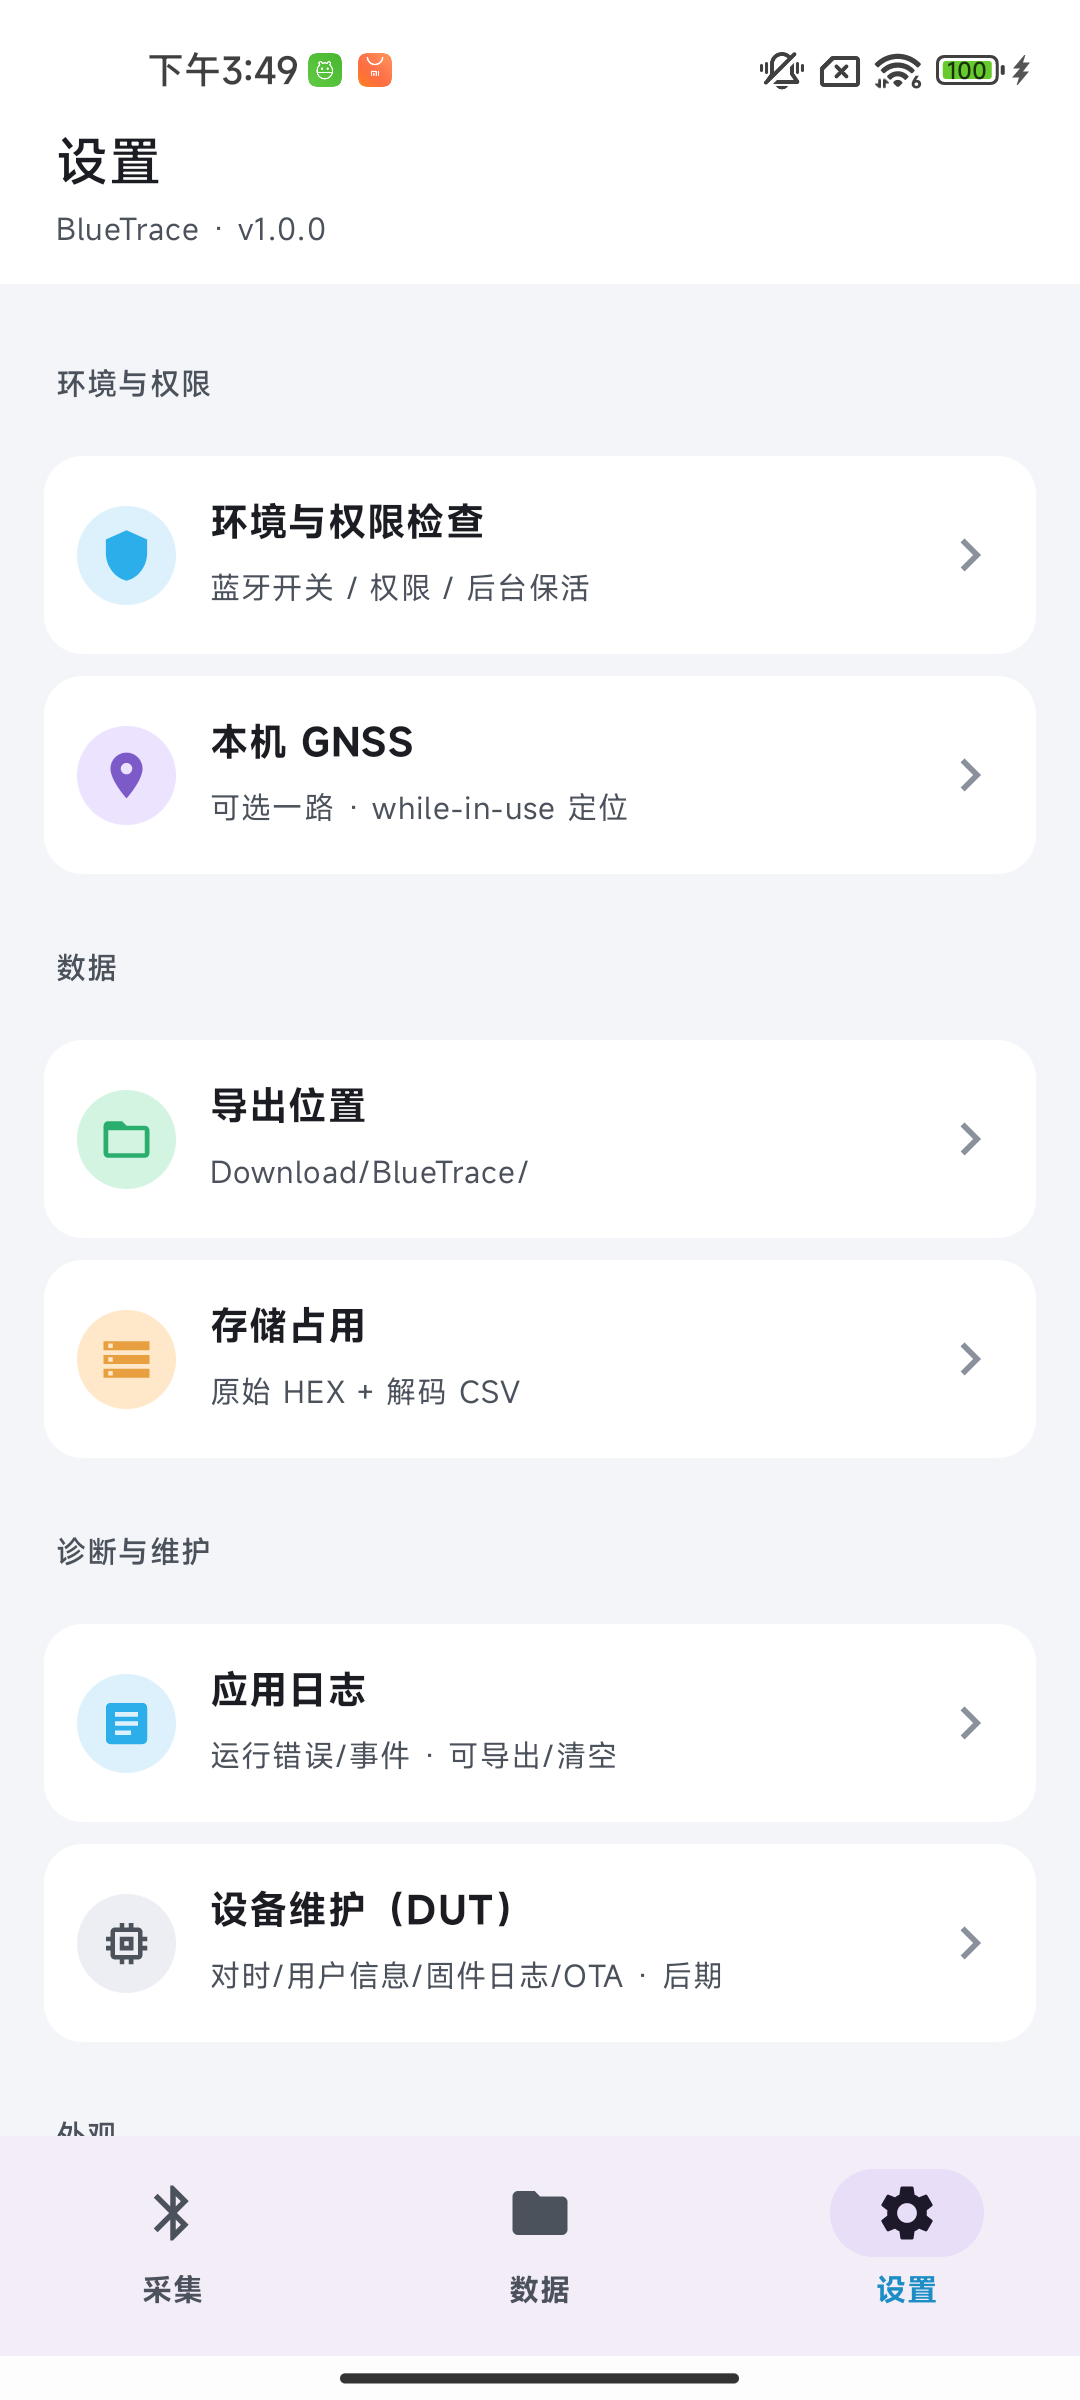
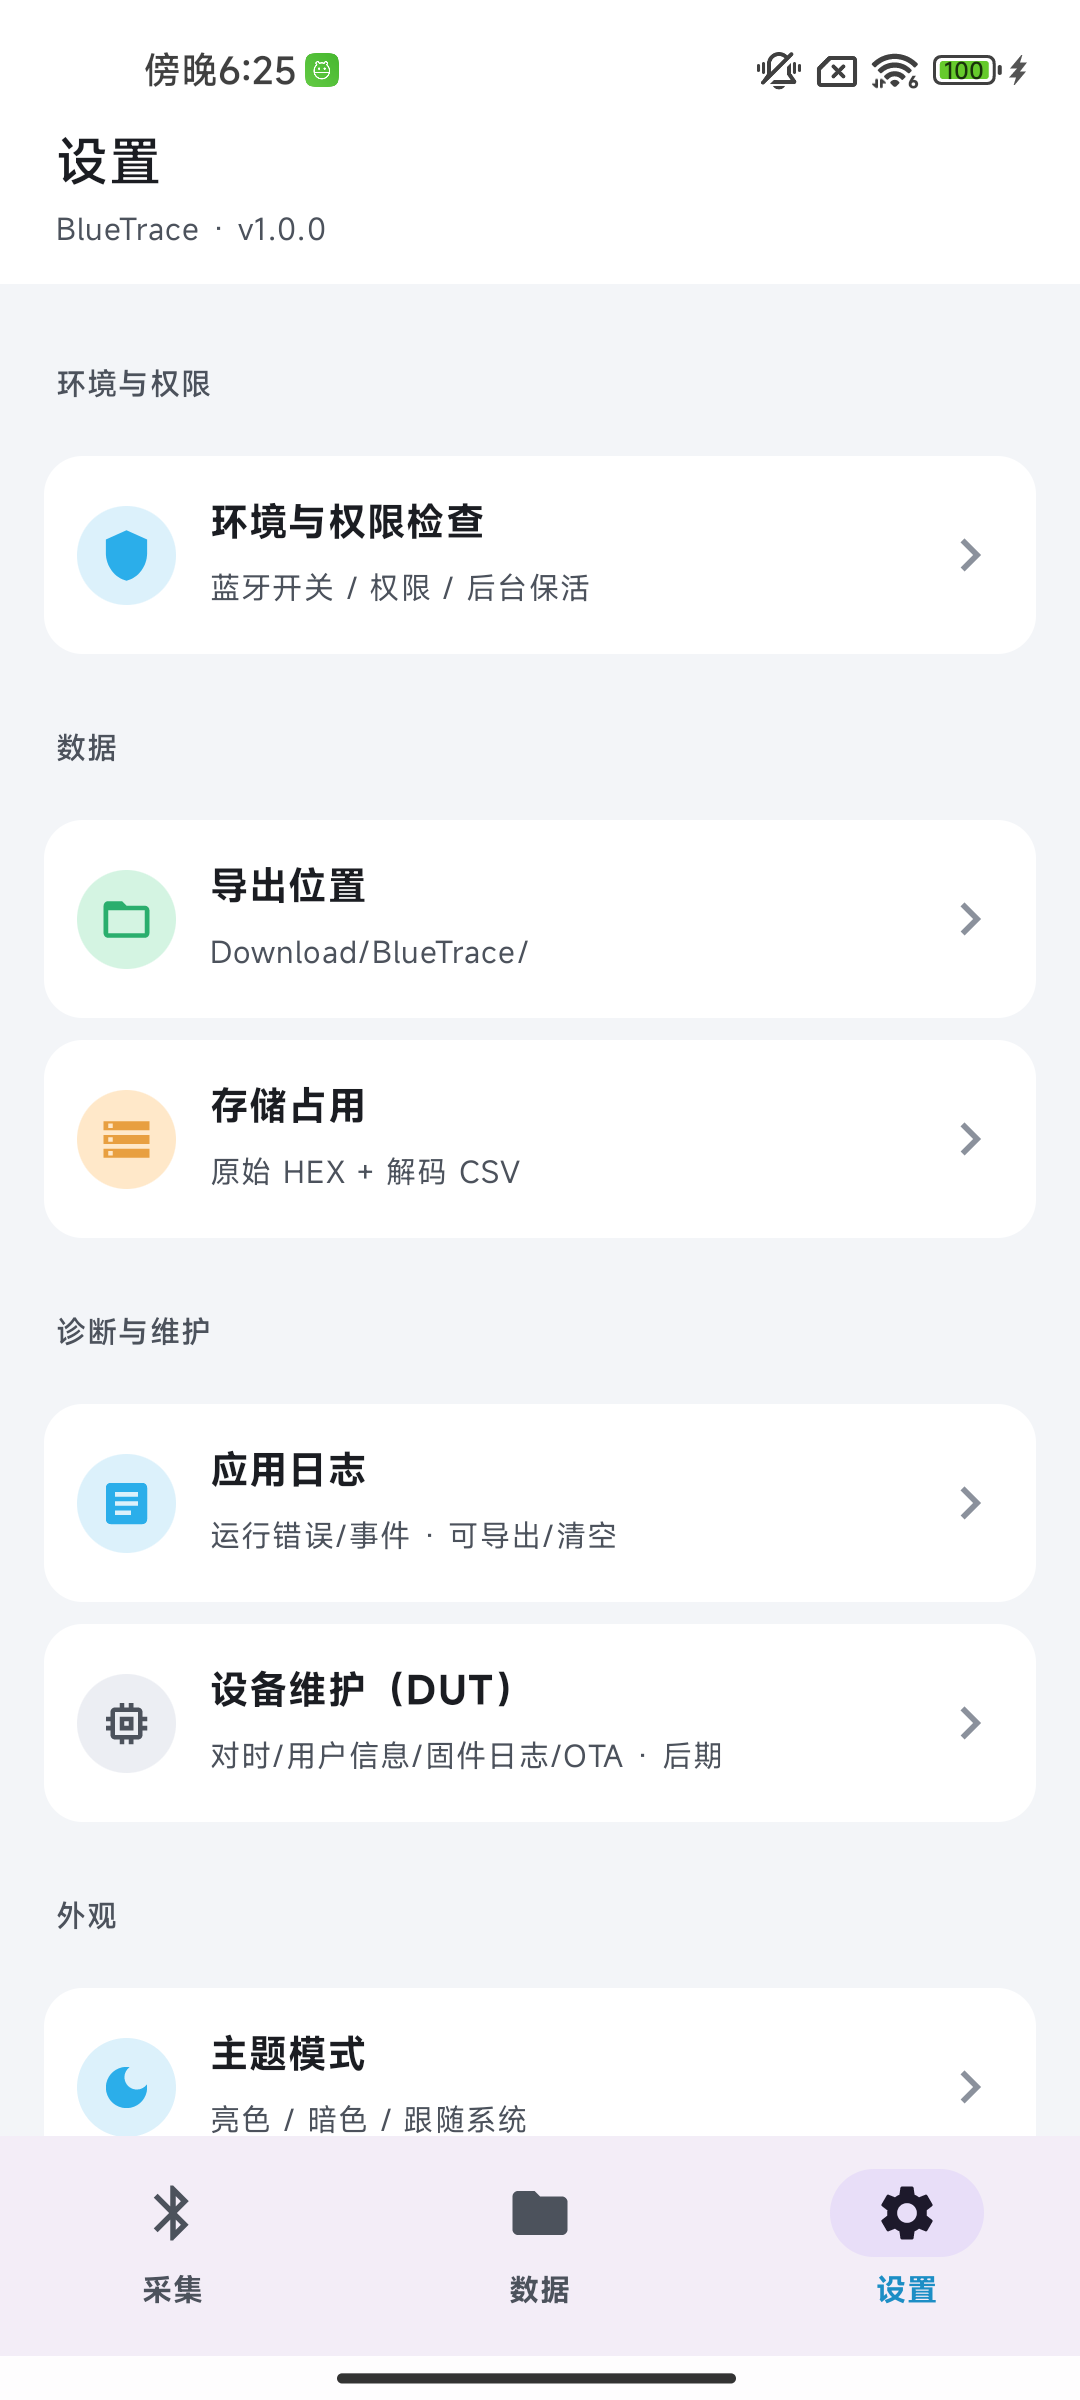
refactor(gnss): 删除设置页 GNSS 屏与入口(启用已迁至采集类型勾选)
GNSS 启用已完全靠「采集类型勾选 + 就地授权」(上一提交 5f09445),设置页的 GNSS 状态屏与
导航入口不再需要 → 整屏移除。

- 删 GnssScreen + isSystemLocationOn(PermissionScreens)、Route.Gnss、设置入口行、
  BlueTraceApp 接线、SettingsHomeScreen.onGnss 参数
- 清孤儿字符串(settings_gnss / gnss_* 屏串 / collect_gnss_note);保留采集 sheet 用的
  run_type_gnss / run_type_gnss_sub / gnss_denied_toast
- 真机确认:设置「环境与权限」段已无 GNSS 行;19_设置主页 参照图更新
- :app:assembleDebug 通过

diff --git a/app/src/main/java/io/bluetrace/ui/screen/permission/PermissionScreens.kt b/app/src/main/java/io/bluetrace/ui/screen/permission/PermissionScreens.kt
@@ -222,63 +222,6 @@ fun PowerSaveGuideScreen(onBack: () -> Unit) {
     }
 }
 
-/** GNSS · 本机定位（while-in-use）。启用改为「采集 → 采集类型」里勾选（Q1）；本屏只读状态/权限。
- *  状态：缺定位权限（去请求）/ 系统定位总开关关闭（去系统设置）/ 已就绪。 */
-@Composable
-fun GnssScreen(
-    onBack: () -> Unit,
-    envVm: EnvironmentViewModel = koinViewModel(),
-) {
-    val env by envVm.state.collectAsStateWithLifecycle()
-    val locationGranted = env.status(RequirementId.LOCATION) == RequirementStatus.GRANTED
-    val context = LocalContext.current
-    var systemLocationOn by remember { mutableStateOf(true) }
-    val permLauncher = rememberLauncherForActivityResult(ActivityResultContracts.RequestMultiplePermissions()) {
-        envVm.refresh(); systemLocationOn = isSystemLocationOn(context)
-    }
-
-    LaunchedEffect(Unit) {
-        envVm.refresh()
-        systemLocationOn = isSystemLocationOn(context)
-    }
-
-    Column(Modifier.fillMaxSize().background(BT.bg)) {
-        BtTopBar(title = stringResource(R.string.gnss_title), subtitle = stringResource(R.string.gnss_subtitle), onBack = onBack)
-        Column(Modifier.verticalScroll(rememberScrollState()).padding(16.dp), verticalArrangement = Arrangement.spacedBy(12.dp)) {
-            val statusSub = when {
-                !locationGranted -> stringResource(R.string.gnss_missing)
-                !systemLocationOn -> stringResource(R.string.gnss_system_off)
-                else -> stringResource(R.string.gnss_granted)
-            }
-            // 只读状态卡（启用开关已移除 → 采集类型勾选，Q1）
-            Surface(color = BT.surface, shape = RoundedCornerShape(BT.radius), modifier = Modifier.fillMaxWidth()) {
-                Column(Modifier.padding(14.dp)) {
-                    Text(stringResource(R.string.gnss_source), fontSize = 14.sp, fontWeight = FontWeight.W600, color = BT.onSurface)
-                    Text(statusSub, fontSize = 11.sp, color = BT.onSurfaceV)
-                }
-            }
-            when {
-                !locationGranted ->
-                    PrimaryButton(stringResource(R.string.gnss_request), onClick = { permLauncher.launch(BlueTracePermissions.location) })
-                !systemLocationOn -> {
-                    // GNSS C：权限已授但系统定位总开关关闭 → 去系统定位设置
-                    Text(stringResource(R.string.gnss_system_off_note), fontSize = 12.sp, color = BT.onSurfaceV)
-                    PrimaryButton(stringResource(R.string.gnss_open_location_settings), onClick = {
-                        context.startActivity(Intent(Settings.ACTION_LOCATION_SOURCE_SETTINGS))
-                    })
-                }
-            }
-            Text(stringResource(R.string.gnss_note), fontSize = 12.sp, color = BT.onSurfaceV)
-        }
-    }
-}
-
-/** 系统定位总开关是否开启（GNSS C 检测）。 */
-private fun isSystemLocationOn(context: Context): Boolean {
-    val lm = context.getSystemService(Context.LOCATION_SERVICE) as? android.location.LocationManager ?: return false
-    return runCatching { androidx.core.location.LocationManagerCompat.isLocationEnabled(lm) }.getOrDefault(false)
-}
-
 // ===== 权限永久拒绝检测 + 应用设置（§5.2 启动D）=====
 
 private tailrec fun Context.findActivity(): Activity? = when (this) {

diff --git a/app/src/main/java/io/bluetrace/ui/screen/settings/SettingsScreens.kt b/app/src/main/java/io/bluetrace/ui/screen/settings/SettingsScreens.kt
@@ -20,7 +20,6 @@ import androidx.compose.foundation.verticalScroll
 import androidx.compose.material.icons.Icons
 import androidx.compose.material.icons.automirrored.filled.KeyboardArrowRight
 import androidx.compose.material.icons.filled.Info
-import androidx.compose.material.icons.filled.LocationOn
 import androidx.compose.material.icons.filled.Memory
 import androidx.compose.material.icons.filled.Shield
 import androidx.compose.material.icons.filled.Storage
@@ -62,7 +61,7 @@ import org.koin.androidx.compose.koinViewModel
 
 @Composable
 fun SettingsHomeScreen(
-    onEnv: () -> Unit, onGnss: () -> Unit, onExportLoc: () -> Unit, onStorage: () -> Unit,
+    onEnv: () -> Unit, onExportLoc: () -> Unit, onStorage: () -> Unit,
     onLog: () -> Unit, onDeviceMaint: () -> Unit, onAbout: () -> Unit, onAppearance: () -> Unit,
 ) {
     Column(Modifier.fillMaxSize().background(BT.bg)) {
@@ -70,7 +69,6 @@ fun SettingsHomeScreen(
         LazyColumn(Modifier.weight(1f).padding(horizontal = 16.dp), verticalArrangement = Arrangement.spacedBy(8.dp), contentPadding = androidx.compose.foundation.layout.PaddingValues(vertical = 10.dp)) {
             item { SectionHeader(stringResource(R.string.settings_sec_env)) }
             item { SettingsNavRow(Icons.Filled.Shield, BT.primary, BT.primaryC, stringResource(R.string.settings_env_check), stringResource(R.string.settings_env_check_sub), onEnv) }
-            item { SettingsNavRow(Icons.Filled.LocationOn, BT.tertiary, BT.tertiaryC, stringResource(R.string.settings_gnss), stringResource(R.string.settings_gnss_sub), onGnss) }
             item { SectionHeader(stringResource(R.string.settings_sec_data)) }
             item { SettingsNavRow(Icons.Filled.FolderOpen, BT.success, BT.successC, stringResource(R.string.settings_export_loc), stringResource(R.string.settings_export_loc_sub), onExportLoc) }
             item { SettingsNavRow(Icons.Filled.Storage, BT.warning, BT.warningC, stringResource(R.string.settings_storage), stringResource(R.string.settings_storage_sub), onStorage) }

diff --git a/app/src/main/java/io/bluetrace/ui/BlueTraceApp.kt b/app/src/main/java/io/bluetrace/ui/BlueTraceApp.kt
@@ -43,7 +43,6 @@ import io.bluetrace.ui.screen.data.DataHomeScreen
 import io.bluetrace.ui.screen.data.SessionDetailScreen
 import io.bluetrace.ui.screen.device.DeviceConnectScreen
 import io.bluetrace.ui.screen.permission.BluetoothOffScreen
-import io.bluetrace.ui.screen.permission.GnssScreen
 import io.bluetrace.ui.screen.permission.PermissionGateScreen
 import io.bluetrace.ui.screen.permission.PowerSaveGuideScreen
 import io.bluetrace.ui.screen.run.CollectionRunScreen
@@ -219,7 +218,6 @@ private fun BlueTraceNavHost(nav: NavHostController) {
             composable<Route.SettingsHome> {
                 SettingsHomeScreen(
                     onEnv = { nav.navigate(Route.EnvCheck) },
-                    onGnss = { nav.navigate(Route.Gnss) },
                     onExportLoc = { nav.navigate(Route.ExportLocation) },
                     onStorage = { nav.navigate(Route.Storage) },
                     onLog = { nav.navigate(Route.AppLog) },
@@ -229,7 +227,6 @@ private fun BlueTraceNavHost(nav: NavHostController) {
                 )
             }
             composable<Route.EnvCheck> { EnvCheckScreen(onBack = { nav.popBackStack() }) }
-            composable<Route.Gnss> { GnssScreen(onBack = { nav.popBackStack() }) }
             composable<Route.ExportLocation> { ExportLocationScreen(onBack = { nav.popBackStack() }) }
             composable<Route.Storage> { StorageScreen(onBack = { nav.popBackStack() }) }
             composable<Route.AppLog> { AppLogScreen(onBack = { nav.popBackStack() }) }

diff --git a/app/src/main/java/io/bluetrace/ui/nav/Routes.kt b/app/src/main/java/io/bluetrace/ui/nav/Routes.kt
@@ -32,7 +32,6 @@ sealed interface Route {
 
     // 设置子页（嵌 SettingsGraph）
     @Serializable data object EnvCheck : Route
-    @Serializable data object Gnss : Route
     @Serializable data object ExportLocation : Route
     @Serializable data object Storage : Route
     @Serializable data object AppLog : Route